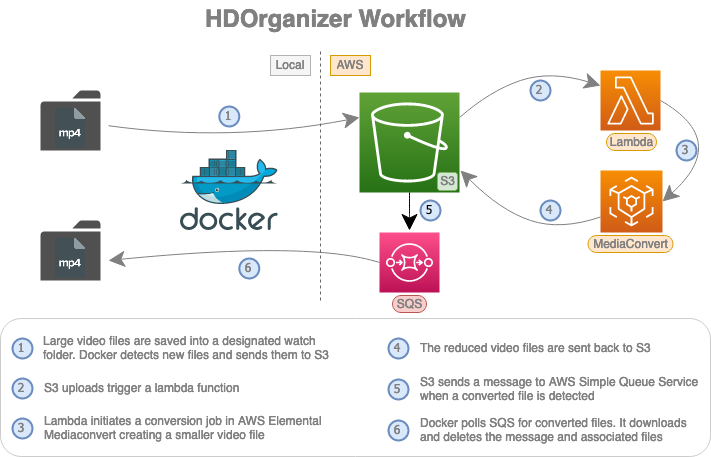
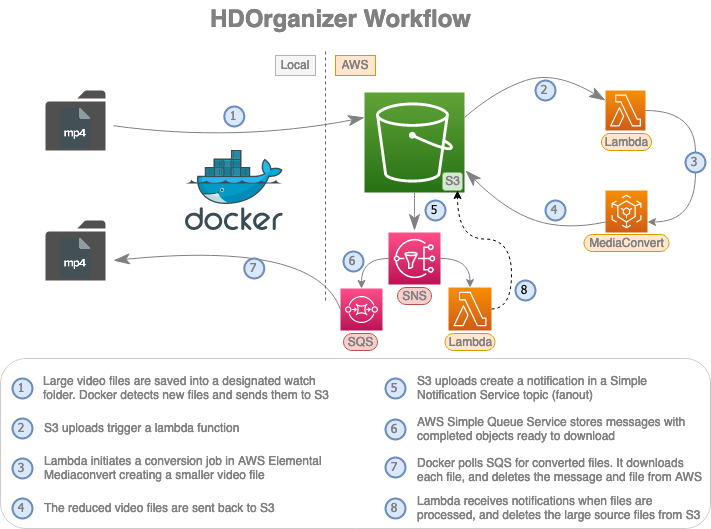
added more error handling (SQS test messages that have no records). added lock file mechanism to download script. revised naming in the lambda queries as export was adding additional file type to naming (ex. file.mp4.mp4)

Changed region(s): [[0.0, 0.0, 0.9902, 1.0], [0.7117, 0.1225, 1.0, 0.5514], [0.9902, 0.7046, 1.0, 0.7352]]

diff --git a/project/scripts/hdo_download.py b/project/scripts/hdo_download.py
@@ -2,18 +2,11 @@
 
 # This script is used to download completed (converted) video files back to the source machine
 
-
-# Local docker has to run this via cron only if not already running. One way to do this is to
-#   run a bash script via cron that runs the py script only if a lock file is not present.
-#   See here: https://serverfault.com/questions/237710/dont-run-cron-job-if-already-running
-
-
-# from logging import error
 import os
 import boto3
 import json
 import logging
-
+from lock import lock_file_exists, make_lock_file, release_lock_file
 from botocore.exceptions import ClientError
 
 # profile_name = os.environ('profile_name')
@@ -44,25 +37,30 @@ def hdo_get_sqs_message():
         MessageAttributeNames = [
             'All'
         ]
-        ,VisibilityTimeout = 30 #declaring here will override the "default" (set in the queue)
+        ,VisibilityTimeout = 60 #declaring here will override the "default" (set in the queue)
     )
 
     if 'Messages' in response:
-        body = response['Messages'][0]['Body']
-        message = json.loads(body)['Message']
-        original_input_key = json.loads(message)['Records'][0]['s3']['object']['key']
-        input_key = original_input_key.replace('+',' ')  # S3 event replacing spaces with + 
-        logging.info('-------input_key---------')
-        logging.info(input_key)
         receipt_handle = response['Messages'][0]['ReceiptHandle']
         logging.info('--------receipt_handle--------')
         logging.info(receipt_handle)
 
+        body = response['Messages'][0]['Body']
+        message = json.loads(body)['Message']
+        if 'Records' in json.loads(message):
+            original_input_key = json.loads(message)['Records'][0]['s3']['object']['key']
+            logging.info(original_input_key)
+            input_key = original_input_key.replace('+',' ')  # S3 event replacing spaces with + 
+            logging.info('-------input_key---------')
+            logging.info(input_key)
+        else:
+            logging.info('there are no Records in this SQS message. Skip')
+            input_key = None
+
         return receipt_handle, input_key
         
     else:
-        logging.warning('SQS has no messages... Terminating')
-        raise ValueError('SQS has no messages')
+        raise ValueError('SQS has no messages... Terminating')
 
 def hdo_download_file(key):
 
@@ -109,7 +107,7 @@ def hdo_delete_sqs_message(receipt_handle):
 
 def main():
     logging.basicConfig(
-        # filename='check_empty.log',
+        # filename='hdo_download.log',
         encoding='utf-8',
         format='%(asctime)s %(levelname)-8s %(message)s',
         level=logging.INFO,
@@ -119,28 +117,37 @@ def main():
     logging.getLogger('botocore').setLevel(logging.WARNING) 
 
     logging.info('----- BEGIN PROCESS -----')
+    if not lock_file_exists('python_running.lock'):
+        make_lock_file('python_running.lock','Running HDOrganizer downloads')
+        while True:  
+            logging.info('Poll Amazon SQS')
+            try:
+                sqs_message_details = hdo_get_sqs_message()
+            except Exception as ex:
+                logging.error(ex)
+                break
+                # logging.info('----- END PROCESS -----')
+                # exit()
 
-    while True:  
-        logging.info('Poll Amazon SQS')
-        try:
-            sqs_message_details = hdo_get_sqs_message()
-        except Exception as ex:
-            logging.error(ex)
-            logging.info('----- END PROCESS -----')
-            exit()
+            receipt_handle = sqs_message_details[0]
+            input_key = sqs_message_details[1]
 
-        receipt_handle = sqs_message_details[0]
-        input_key = sqs_message_details[1]
-
-        try:
-            hdo_download_file(input_key)
-            hdo_delete_sqs_message(receipt_handle)
-            hdo_delete_file(input_key)
-        except Exception as e:
-            logging.warning(f'{input_key} did not download, sqs message retained and will return to the queue after visibility timeout')
-            logging.error(e)
-            break
-    next
+            if input_key:
+                try:
+                    hdo_download_file(input_key)
+                    hdo_delete_sqs_message(receipt_handle)
+                    hdo_delete_file(input_key)
+                except Exception as e:
+                    logging.warning(f'{input_key} did not download, sqs message retained and will return to the queue after visibility timeout')
+                    logging.error(e)
+                    continue
+            else:
+                continue
+        
+        release_lock_file('python_running.lock')  
+        logging.info('----- END PROCESS -----')
+    else:
+        logging.info('----- END PROCESS -----')              
 
 if __name__ == '__main__':
     main()

diff --git a/project/scripts/main.py b/project/scripts/main.py
@@ -1,9 +1,12 @@
 #!python
 
+# This script is used to upload files from the watch directory to S3
+
 import os
 import shutil
 import logging
 import time
+from lock import lock_file_exists, make_lock_file, release_lock_file
 from hdo_import import hdo_import_file
 
 # profile_name = 'hdo-dev'
@@ -78,34 +81,14 @@ def process4kfiles(src, dest):
         else:
             logging.warning('contents in directory: ' + ' ,'.join(os.listdir(root)))
 
-def lock_file_exists(filename):
-    if os.path.exists(filename):
-        logging.warning('lock file exists, indicating script is alredy running')
-        return True
-    else:
-        logging.info('lock file does not exit, proceeding...') 
-        return False
-
-def make_lock_file(filename, infotext):
-    f = open(filename,'w')
-    f.write(infotext)
-    f.close()
-    logging.info('created lock file: python_running_lock.txt')
-
-def release_lock_file(filename):
-    try:
-        os.remove(filename)
-    except Exception as ex:
-        logging.error(ex)
-    logging.info(f'removed lock file: {filename}')
-
 def main():
     logging.basicConfig(
-        # filename='check_empty.log',
+        # filename='hdo_upload.log',
         encoding='utf-8',
         format='%(asctime)s %(levelname)-8s %(message)s',
         level=logging.INFO,
         datefmt='%Y-%m-%d %H:%M:%S')
+        
     #Set aws calls back to WARNING to avoid verbose messages
     logging.getLogger('botocore').setLevel(logging.WARNING) 
 

diff --git a/project/scripts/lock.py b/project/scripts/lock.py
@@ -1,0 +1,28 @@
+#!python
+
+# This module is used to create and remove a lock file
+# typically used to ensure cron does not launch an already-running script
+
+import os
+import logging
+
+def lock_file_exists(filename):
+    if os.path.exists(filename):
+        logging.warning('lock file exists, indicating script is alredy running')
+        return True
+    else:
+        logging.info('lock file does not exit, proceeding...') 
+        return False
+
+def make_lock_file(filename, infotext):
+    f = open(filename,'w')
+    f.write(infotext)
+    f.close()
+    logging.info(f'created lock file: {filename}')
+
+def release_lock_file(filename):
+    try:
+        os.remove(filename)
+    except Exception as ex:
+        logging.error(ex)
+    logging.info(f'removed lock file: {filename}')

diff --git a/project/scripts/HDOrganizer-Convert.py b/project/scripts/HDOrganizer-Convert.py
@@ -37,7 +37,7 @@ def lambda_handler(event, context):
     logger.info(input_bucket)
     input = 's3://'+input_bucket+'/'+input_key
     logger.info(input)
-    destination = destination_bucket+input_key
+    destination = destination_bucket+input_key.removeprefix('import/')
     logger.info(destination)
 
     # create job parameters

diff --git a/project/scripts/hdo_import.py b/project/scripts/hdo_import.py
@@ -8,7 +8,6 @@ import logging
 from botocore.exceptions import ClientError
 
 # profile_name = os.environ('profile_name')
-
 profile_name = 'hdo-dev'
 
 def hdo_import_file(file_name, file_path, bucket):
